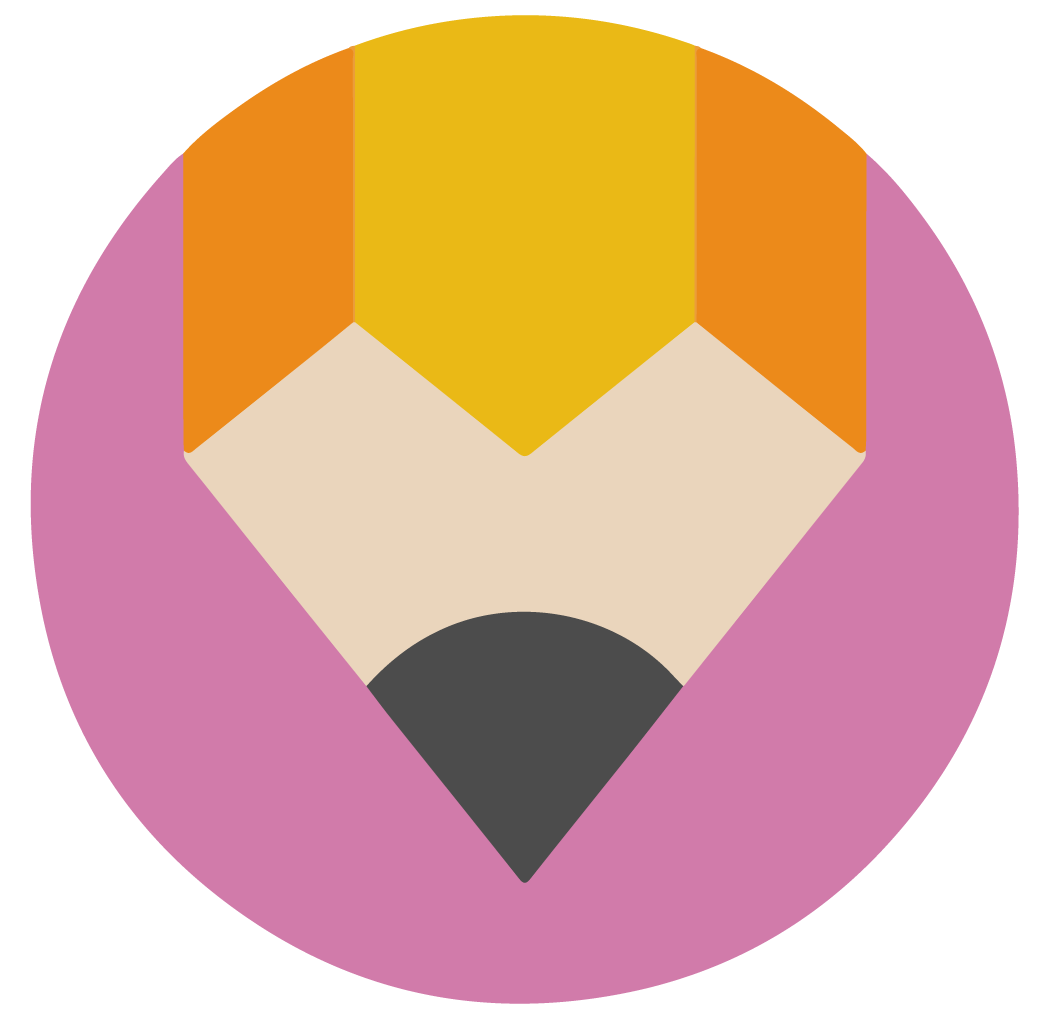
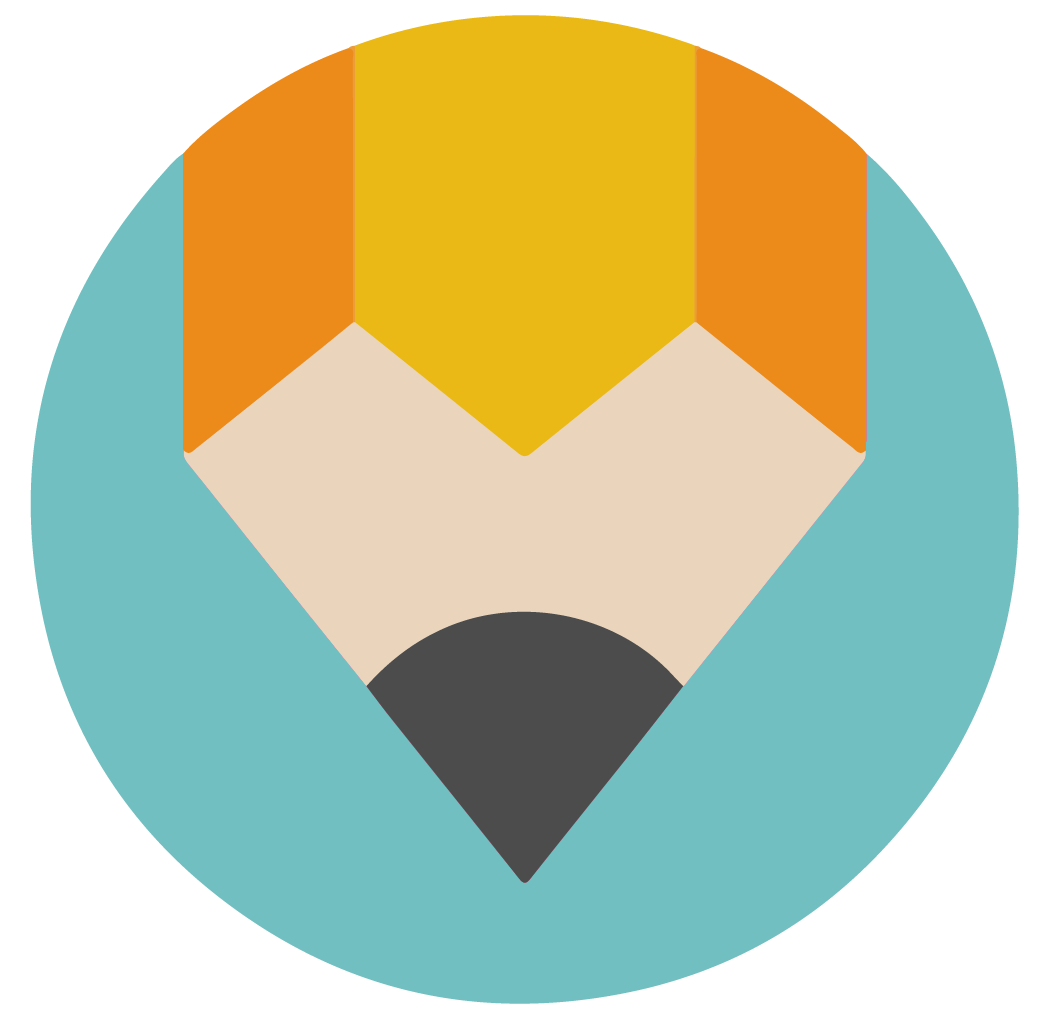
main page updated

diff --git a/css/main.css b/css/main.css
@@ -1,6 +1,6 @@
 
 body {
-	font-family: Arial, Verdana, sans-serif;
+	font-family: 'Open Sans', Verdana, sans-serif;
 	margin: 0;
 	font-size: 1.25rem;
 }
@@ -12,7 +12,7 @@ html {
 h1 {
 	font-size: 3rem;
   color: white;
-	background-color: #d17baa;
+	background-color: #5dc5c5;
 	margin: 0;
 	padding: 1rem 0 0 1rem;
 }
@@ -44,13 +44,13 @@ figcaption {
 }
 
 a {
-	color: rgb(200,0,0);
+	color: rgb(0,0,200);
 	transition: color 0.5s;
 	text-decoration: none;
 }
 
 a:active, a:hover, a:focus {
-	color: rgb(50,0,0);
+	color: rgb(0,0,70);
 	text-decoration: none;
 }
 
@@ -90,12 +90,15 @@ margin-bottom: 13.5rem;
 
 }
 
-
+.pencil-up img {
+	max-width: 5rem;
+	margin: auto;
+}
 
 #main{
 
 	text-align: center;
-	padding-top: 5rem;
+	padding-top: 4rem;
 	height: 100vh;     /*viewport height, adapted from: https://www.lullabot.com/articles/unexpected-power-of-viewport-units-in-css*/
 }
 
@@ -104,11 +107,44 @@ margin-bottom: 13.5rem;
 }
 
 .attribute {
-	border: 10px #d17baa;
+	border: 1.2px #5dc5c5;
 	border-style: dotted;
 	display: flex;
-	align-items: stretch;
+	flex: 2 2 10em;
 	margin: 1rem 0 1rem 0;
+	padding-left: 0.5rem;
+	text-align: left;
+}
+
+.attribute p {
+	font-size: 0.9rem;
+}
+
+.product-img {
+	max-width: 25rem;
+}
+
+.learn-more {
+	border: 0 solid #fff;
+}
+
+.learn-more a {
+	font-size: 0.7rem;
+	text-decoration: underline;
+}
+
+.infographic {
+	text-align: center;
+}
+
+.infographic img {
+	max-width: 70%;
+	margin-left: 3rem;
+	margin-right: 3rem;
+}
+
+#archetypes {
+	margin-top: 5rem;
 }
 
 
@@ -117,7 +153,7 @@ margin-bottom: 13.5rem;
 .navigation {
   list-style: none;
   margin: 0;
-  background: #d17baa;
+  background: #5dc5c5;
 
 	-webkit-box-shadow: 0 4px 5px -3px #888;    /* one-sided shadow property. sourced from: https://stackoverflow.com/questions/5115427/how-can-i-add-a-box-shadow-on-one-side-of-an-element */
 				 box-shadow: 0 4px 5px -3px #888;
@@ -140,7 +176,7 @@ margin-bottom: 13.5rem;
 }
 
 .navigation a:hover {
-  background: darken(#d17baa, 2%);
+  background: darken(#5dc5c5, 2%);
 }
 
 @media all and (max-width: 800px) {

diff --git a/index.html b/index.html
@@ -12,6 +12,7 @@
 		<link rel="stylesheet" href="css/normalize.css">
 		<link rel="stylesheet" href="css/main.css">
 		<link rel="stylesheet" href="css/flexbox.css">
+		<link href="https://fonts.googleapis.com/css?family=Open+Sans" rel="stylesheet">
 
 	</head>
 
@@ -55,23 +56,75 @@
 
     <div class="box" id="main">
 
-     <div class="box-item">
+     <div class="box-item product-img">
       <img src="img/giphy.gif" alt="empty product template">
     </div>
 
 		<div class="box-item" id="attributes-list">
-    <div class="attribute"> <p> hey hey hey </p> </div>
-		  <div class="attribute"> <p> hey hey hey </p> </div>
-			  <div class="attribute"> <p> hey hey hey </p> </div>
+
+
+
+		<div class="attribute">
+			   <p> Where you'd find it: <strong> specialty beauty stores </strong> </p>
+		</div>
+		<div class="attribute">
+			   <p> Targeting: <strong> adults </strong> </p>
+		</div>
+		<div class="attribute">
+			   <p> Price range: <strong> above average - high </strong> </p>
+		</div>
+		<div class="attribute">
+				 <p> Brand values: <strong> trendy, ethical, fresh </strong> </p>
+		</div>
+		<div class="attribute">
+			   <p> Scent: <strong> papaya  </strong> </p>
+		</div>
+			  <div class="attribute">
+				<p> Brand archetype: <strong> cheerful </strong> </p>
+	 	</div>
+	   	<div class="attribute learn-more">
+	     	<a href="#archetypes"> learn more about brand archetypes </a>
+      </div>
+
+
+
 	 </div>
 
 	 <div class="box-item">
-  <p> aaaa </p>
+  <p> form here </p>
+	</div>
+	</div>
+	<div class="box" id="archetypes">
+
+				<div class="box-item infographic">
+
+					<h4> 12 brand archetypes </h4>
+
+						<img src="img/archetypes.jpg" alt="brand archetypes inforgraphic">
+
+
+
+				</div>
+
+				<div class="box">
+
+							<div class="box-item pencil-up">
+								<a href="#attributes-list"> 	<figure>
+
+									<img src="img/pencil-up.png" alt="pencil">
+									<figcaption> return </figcaption>
+								 </figure>
+									 </a>
+							</div>
+
+			</div>
+
 	</div>
 
 
 
-		</div>
+
+
 
 
 
